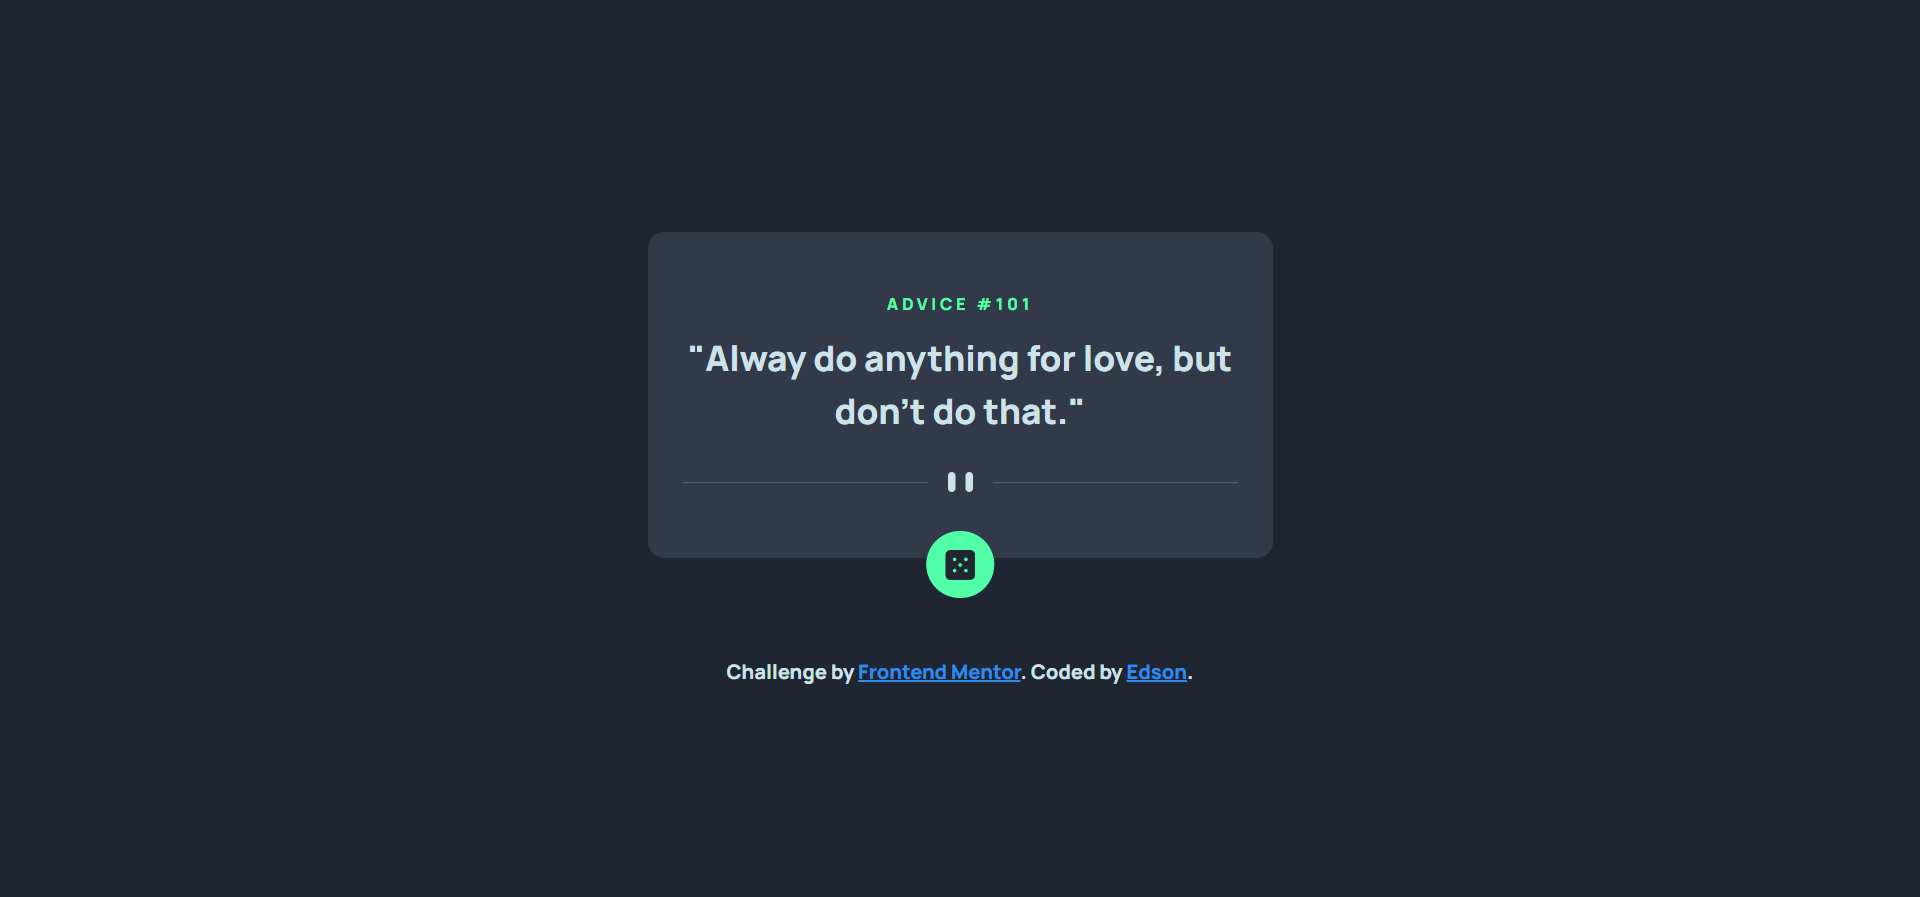
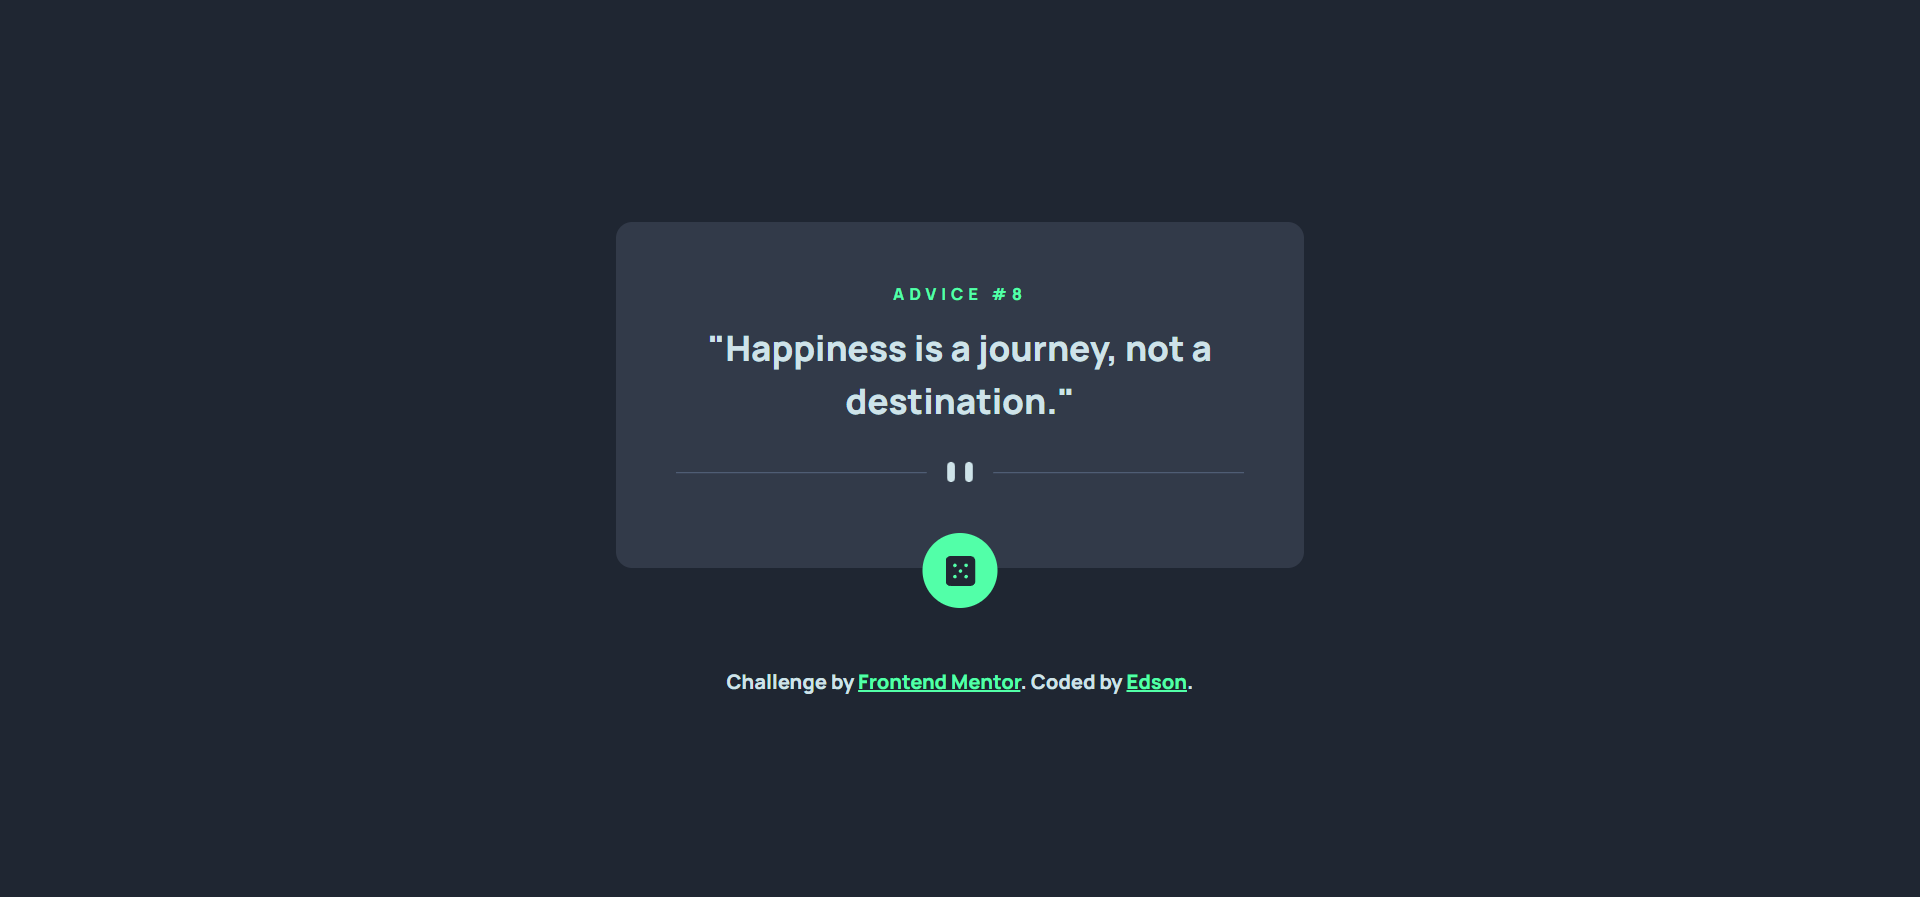
Changing Style

diff --git a/style.css b/style.css
@@ -3,7 +3,6 @@
     /* Colors */
     --light-cyan: hsl(193, 38%, 86%);
     --neon-green: hsl(150, 100%, 66%);
-    --blue: hsl(210, 81%, 55%);
 
     --grayish-blue: hsl(217, 19%, 38%);
     --dark-grayish-blue: hsl(217, 19%, 24%);
@@ -130,7 +129,7 @@ h1 {
 }
 
 .attribution a {
-    color: var(--blue);
+    color: var(--neon-green);
 }
 
 /* Media Queries */
